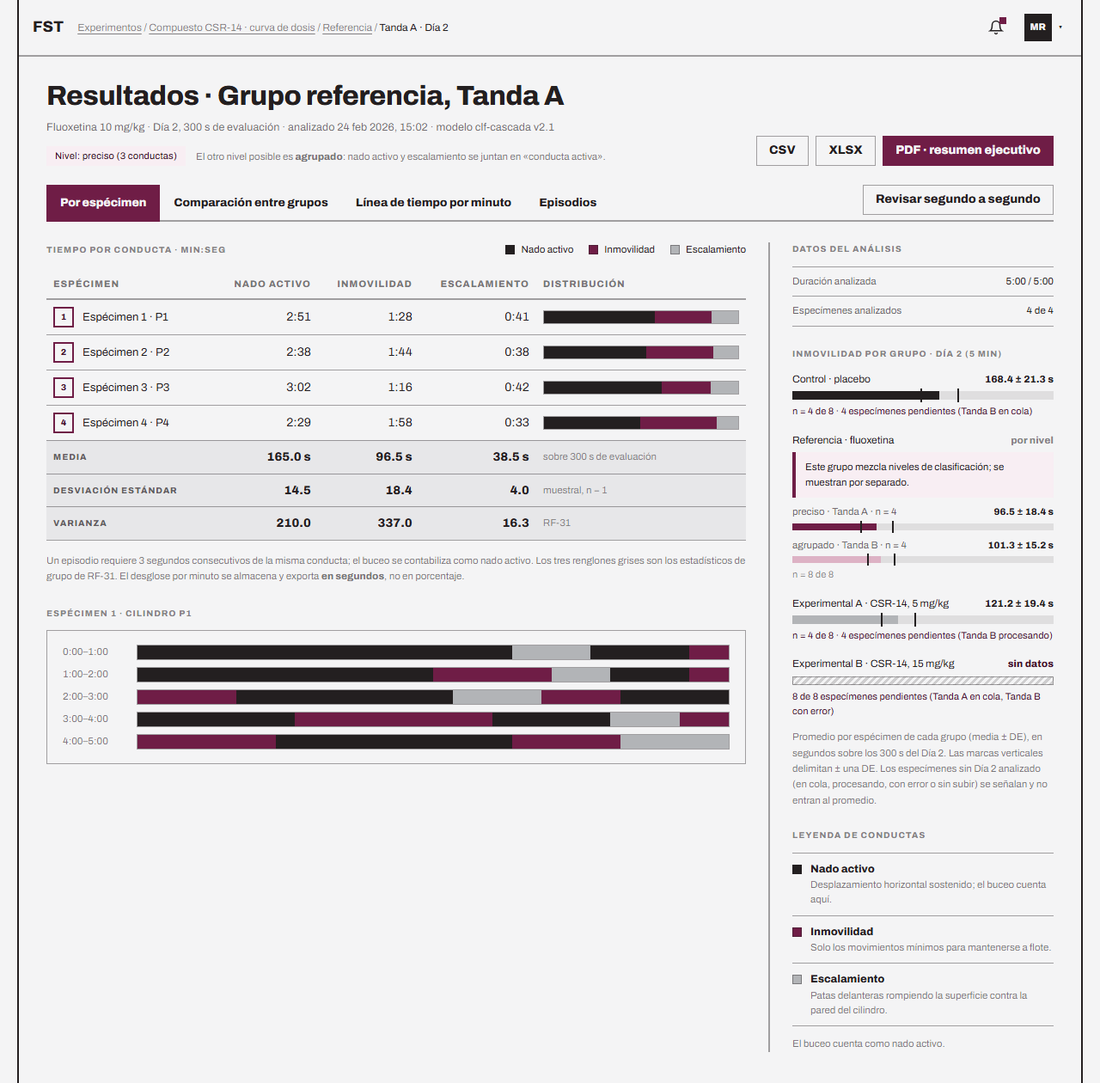
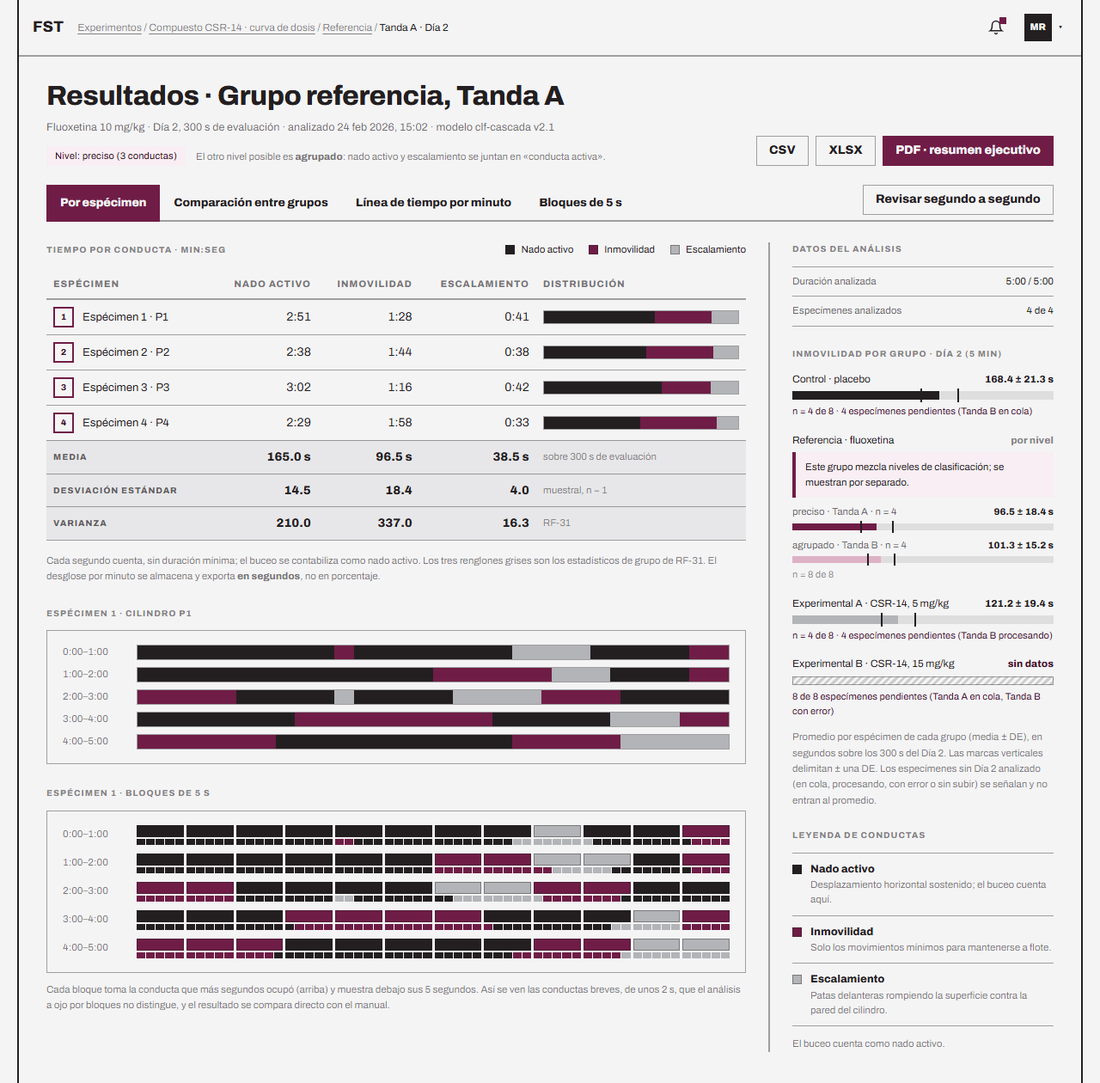
Reescribir el clasificador del capitulo 5, quitar el minimo de 3 s y el bloqueo por intentos
Clasificador (CLA-01)
- El Modulo 4 del capitulo 5 describe el clasificador que se construyo:
  quince rasgos de movimiento, postura y trayectoria, un Random Forest
  con la regla de tres pasos que da "conducta activa", decision segundo
  a segundo con una ventana deslizante de 4 s, entrenamiento en bola de
  nieve con validacion por video y la CNN R(2+1)D, todavia en
  desarrollo. La evaluacion queda para TT-II con precision, recall y F1.
- Bibliografia: Breiman (2001) y Tran et al. (2018).
- CAMBIOS-CAP5.md registra CLA-02 y CLA-03 (arquitectura, seguimiento y
  ResNet en los demas capitulos), en espera hasta terminar el
  clasificador.

Sin duracion minima de episodio (D-49)
- RF-18, la justificacion de umbrales, el alcance y el suavizado: cada
  segundo recibe una conducta sin duracion minima y el sistema detecta
  conductas breves de unos 2 s.
- Resultados: la pestana "Episodios" pasa a "Bloques de 5 s", con la
  conducta mayoritaria de cada bloque y sus cinco segundos debajo, para
  comparar con el analisis manual. Nueva subfigura en el capitulo 5.
- El panel de administracion deja de mostrar el minimo de 3 s.

Otros
- CU-01 ya no bloquea la cuenta tras cinco intentos fallidos (D-48).
- El ciclo de vida del experimento ya no permite reintentar un analisis
  fallido (RN-04) y su estado de error nombra los dos errores definidos.
- El enlace de recuperacion del login dura 60 minutos, como la
  configuracion.

El documento compila sin errores, 175 paginas.

diff --git a/mockups/v2/resultados.html b/mockups/v2/resultados.html
@@ -46,7 +46,7 @@
       <button type="button" class="tab on" data-target="secEspecimen">Por espécimen</button>
       <button type="button" class="tab" data-target="secComparacion">Comparación entre grupos</button>
       <button type="button" class="tab" data-target="secTimeline">Línea de tiempo por minuto</button>
-      <button type="button" class="tab" disabled>Episodios</button>
+      <button type="button" class="tab" data-target="secBloques">Bloques de 5 s</button>
       <div style="flex:1"></div>
       <a class="btn btn-secondary" href="revision.html" style="align-self:center;margin-bottom:6px">Revisar segundo a segundo</a>
     </div>
@@ -66,12 +66,18 @@
           <tbody id="rows"></tbody>
         </table>
 
-        <p class="hint" style="margin:14px 0 0">Un episodio requiere 3 segundos consecutivos de la misma conducta; el buceo se contabiliza como nado activo. Los tres renglones grises son los estadísticos de grupo de RF-31. El desglose por minuto se almacena y exporta <strong>en segundos</strong>, no en porcentaje.</p>
+        <p class="hint" style="margin:14px 0 0">Cada segundo cuenta, sin duración mínima; el buceo se contabiliza como nado activo. Los tres renglones grises son los estadísticos de grupo de RF-31. El desglose por minuto se almacena y exporta <strong>en segundos</strong>, no en porcentaje.</p>
 
         <div class="k" id="secTimeline" style="margin:26px 0 12px">Espécimen 1 · Cilindro P1</div>
         <div style="border:1px solid var(--color-divider);padding:16px 18px">
           <div id="timeline" style="display:flex;flex-direction:column;gap:8px"></div>
         </div>
+
+        <div class="k" id="secBloques" style="margin:26px 0 12px">Espécimen 1 · bloques de 5 s</div>
+        <div style="border:1px solid var(--color-divider);padding:16px 18px">
+          <div id="bloques" style="display:flex;flex-direction:column;gap:10px"></div>
+        </div>
+        <p class="hint" style="margin:10px 0 0">Cada bloque toma la conducta que más segundos ocupó (arriba) y muestra debajo sus 5 segundos. Así se ven las conductas breves, de unos 2 s, que el análisis a ojo por bloques no distingue, y el resultado se compara directo con el manual.</p>
       </div>
 
       <div style="background:var(--color-bg);padding-left:26px;display:flex;flex-direction:column;gap:24px">
@@ -163,9 +169,9 @@
 
   // ── línea de tiempo por minuto (Espécimen 1) ─────────────────────────────────
   const patron = [
-    [['nado', 38], ['escal', 8], ['nado', 10], ['inmov', 4]],
+    [['nado', 20], ['inmov', 2], ['nado', 16], ['escal', 8], ['nado', 10], ['inmov', 4]],
     [['nado', 30], ['inmov', 12], ['escal', 6], ['nado', 8], ['inmov', 4]],
-    [['inmov', 10], ['nado', 22], ['escal', 9], ['inmov', 8], ['nado', 11]],
+    [['inmov', 10], ['nado', 10], ['escal', 2], ['nado', 10], ['escal', 9], ['inmov', 8], ['nado', 11]],
     [['nado', 16], ['inmov', 20], ['nado', 12], ['escal', 7], ['inmov', 5]],
     [['inmov', 14], ['nado', 24], ['inmov', 11], ['escal', 11]]
   ];
@@ -176,6 +182,30 @@
       '<span class="num" style="width:74px;font-size:11.5px;color:color-mix(in srgb,var(--color-text) 60%,transparent)">' + fmt(i * 60) + '–' + fmt(i * 60 + 60) + '</span>' +
       '<div style="flex:1;display:flex;height:18px;border:1px solid var(--color-divider)">' +
         segs.map(s => '<div title="' + lbl[s[0]] + ' · ' + s[1] + ' s" style="background:' + cmap[s[0]] + ';width:' + (s[1] / 60 * 100) + '%"></div>').join('') +
+      '</div>' +
+    '</div>').join('');
+
+  // ── bloques de 5 s (RF-18): la conducta con más segundos y, debajo, sus 5 segundos ──
+  const porSegundo = patron.flatMap(segs => segs.flatMap(([c, d]) => Array(d).fill(c)));
+  const EMPATE = 'repeating-linear-gradient(135deg,color-mix(in srgb,var(--color-text) 30%,transparent) 0 3px,transparent 3px 6px)';
+  function bloque(segs5) {
+    const n = {}; segs5.forEach(c => { n[c] = (n[c] || 0) + 1; });
+    const max = Math.max(...Object.values(n));
+    const top = Object.keys(n).filter(c => n[c] === max);
+    // Desempate aún por definir (D-49): el bloque se marca como empate.
+    const titulo = top.length > 1 ? 'Empate: ' + top.map(c => lbl[c]).join(' / ') : lbl[top[0]] + ' · ' + max + ' de 5 s';
+    return '<div title="' + titulo + '" style="flex:1;display:flex;flex-direction:column;gap:2px">' +
+      '<div style="height:14px;background:' + (top.length > 1 ? EMPATE : cmap[top[0]]) + ';border:1px solid var(--color-divider)"></div>' +
+      '<div style="display:flex;gap:1px;height:7px">' +
+        segs5.map(c => '<div style="flex:1;background:' + cmap[c] + '"></div>').join('') +
+      '</div>' +
+    '</div>';
+  }
+  $('bloques').innerHTML = patron.map((_, m) =>
+    '<div style="display:flex;align-items:center;gap:12px">' +
+      '<span class="num" style="width:74px;font-size:11.5px;color:color-mix(in srgb,var(--color-text) 60%,transparent)">' + fmt(m * 60) + '–' + fmt(m * 60 + 60) + '</span>' +
+      '<div style="flex:1;display:flex;gap:3px">' +
+        Array.from({ length: 12 }, (_, b) => bloque(porSegundo.slice(m * 60 + b * 5, m * 60 + b * 5 + 5))).join('') +
       '</div>' +
     '</div>').join('');
 

diff --git a/mockups/v2/login.html b/mockups/v2/login.html
@@ -36,7 +36,7 @@
   <form id="fRecover" novalidate style="padding:30px 34px 32px">
     <div class="nd" style="font-size:24px;color:var(--color-accent);margin-bottom:26px">FST</div>
     <h3 style="margin:0 0 10px">Recuperar contraseña</h3>
-    <p style="margin:0 0 22px;font-size:13px;line-height:1.6;color:color-mix(in srgb,var(--color-text) 70%,transparent);text-wrap:pretty">Escribe el correo de tu cuenta y te enviamos un enlace de restablecimiento válido por 30 minutos.</p>
+    <p style="margin:0 0 22px;font-size:13px;line-height:1.6;color:color-mix(in srgb,var(--color-text) 70%,transparent);text-wrap:pretty">Escribe el correo de tu cuenta y te enviamos un enlace de restablecimiento válido por 60 minutos.</p>
     <div style="display:flex;flex-direction:column;gap:16px">
       <div class="field"><label for="rEmail">Correo electrónico</label><input class="input num" id="rEmail" type="email" placeholder="nombre@ejemplo.com"></div>
       <div class="field-error hidden" id="rErr"></div>

diff --git a/mockups/v2/admin.html b/mockups/v2/admin.html
@@ -223,7 +223,7 @@
     '<div style="display:flex;justify-content:space-between;gap:12px;padding:8px 0;border-bottom:1px solid var(--color-divider);font-size:11.5px"><span style="color:color-mix(in srgb,var(--color-text) 70%,transparent)">' + d.k + '</span><span class="num">' + d.v + '</span></div>').join('');
 
   $('catalogos').innerHTML = [
-    { titulo: 'Conductas', items: [{ n: 'Nado activo', m: '≥ 3 s' }, { n: 'Inmovilidad', m: '≥ 3 s' }, { n: 'Escalamiento', m: '≥ 3 s' }, { n: 'Conducta activa', m: '≥ 3 s' }] },
+    { titulo: 'Conductas', items: [{ n: 'Nado activo', m: '' }, { n: 'Inmovilidad', m: '' }, { n: 'Escalamiento', m: '' }, { n: 'Conducta activa', m: '' }] },
     { titulo: 'Modelo del clasificador', items: [{ n: 'Modelo en uso: clf-cascada v2.1', m: '' }] }
   ].map(c =>
     '<div style="background:var(--color-bg);padding-right:18px">' +

diff --git a/chapters/05_diseno.tex b/chapters/05_diseno.tex
@@ -167,52 +167,67 @@ Dentro de cada ROI, el seguimiento combina detección y asociación temporal:
 
 \subsection{Módulo 4: Clasificación de conducta}
 
-El clasificador recibe el recorte de imagen alrededor del espécimen, normalizado
-a $224 \times 224$ píxeles, y produce tres probabilidades: nado activo,
-inmovilidad y escalamiento.
-Opera en tres niveles según la confianza de la predicción (el umbral exacto
-se definirá durante la fase de validación en TT-II):
+La clasificación trabaja sobre el cilindro de cada espécimen y se basa en
+aprendizaje supervisado. Se construye en dos partes: un clasificador sobre rasgos
+medidos, que ya funciona y que además sirve para etiquetar el conjunto de
+entrenamiento, y una red neuronal convolucional que se compara contra él y que
+sigue en desarrollo.
 
-Los tres niveles operan en cascada: solo se pasa al siguiente si el anterior no
-alcanza el umbral de confianza mínimo.
+\paragraph{Rasgos del espécimen.} Sobre la imagen estabilizada y con el espécimen
+separado del fondo, el sistema mide quince rasgos que describen su movimiento (la
+energía de movimiento medida solo dentro del cuerpo, para que el oleaje del agua no
+la sature), su postura (verticalidad, alargamiento y área) y su trayectoria
+(recorrido, amplitud y cuadrantes del cilindro que cruza). Las distancias se
+expresan en largos de cuerpo y los tiempos en segundos: así, dos videos grabados
+con encuadres distintos producen números comparables y el clasificador aprende la
+conducta y no el encuadre.
+
+\paragraph{Clasificador sobre rasgos.} Un bosque aleatorio (\textit{Random
+Forest}) \cite{breiman2001}, implementado con scikit-learn \cite{pedregosa2011},
+recibe los quince rasgos y estima la probabilidad de nado activo, inmovilidad y
+escalamiento. La conducta se decide con una regla de tres pasos:
 
 \begin{enumerate}
-  \item \textbf{ResNet-18} preentrenada en ImageNet con \textit{transfer learning}
-        \cite{he2016,pan2010}: clasificador principal. Si la confianza de la
-        predicción supera el umbral, la conducta se acepta directamente y no se
-        consultan los niveles siguientes.
-  \item \textbf{ResNet-50} (\textit{fallback} de primer nivel): si ResNet-18 no
-        alcanza la confianza mínima, se consulta ResNet-50, una arquitectura más
-        profunda con mayor capacidad de discriminación para cuadros ambiguos. Si
-        ResNet-50 supera el umbral, su predicción se acepta.
-  \item \textbf{Heurística \textit{motion} + \textit{aspect ratio}} (\textit{fallback}
-        de último recurso): si ambas redes quedan por debajo del umbral, se aplica
-        una regla geométrica que combina dos señales. El \textbf{desplazamiento}
-        (\textit{motion}) mide cuánto se movió el centro del \textit{bounding box}
-        entre el cuadro anterior y el actual: poco desplazamiento indica inmovilidad,
-        mucho desplazamiento indica nado. La \textbf{relación de aspecto}
-        (\textit{aspect ratio}) del \textit{bounding box} complementa esa señal:
-        una caja más ancha que alta corresponde al espécimen horizontal (nado),
-        una caja más alta que ancha corresponde al espécimen vertical flotando
-        (inmovilidad), y una caja alta y estrecha corresponde al espécimen erguido
-        contra la pared (escalamiento). La combinación de ambas señales permite
-        distinguir los tres estados sin necesidad de un modelo entrenado.
+  \item Si una conducta supera el umbral de confianza, se asigna esa conducta.
+  \item Si ninguna lo supera, pero la suma de nado activo y escalamiento sí, se
+        asigna \textit{conducta activa}: el espécimen no está inmóvil, pero el
+        clasificador no decide entre las dos conductas activas (ver RN-13).
+  \item Si tampoco, se asigna la conducta más probable y el resultado se marca
+        como dudoso para que la revisión humana lo atienda primero.
 \end{enumerate}
 
-Las predicciones individuales de cada cuadro se consolidan mediante \textbf{voto
-mayoritario} en una ventana deslizante de un segundo. El objetivo es suavizar
-clasificaciones ruidosas: un espécimen que está nadando puede aparecer clasificado
-como ``inmóvil'' en dos o tres cuadros aislados por un reflejo, una oclusión breve
-o ruido en la imagen. Sin suavizado, eso generaría episodios falsos de fracciones
-de segundo. Con la ventana de un segundo, se cuentan los votos de todos los cuadros
-dentro de la ventana y la conducta con más votos se asigna como resultado de ese
-intervalo. A 30 fps, por ejemplo, si 24 cuadros clasifican nado, 4 inmovilidad y
-2 escalamiento, el resultado es nado. La granularidad de un segundo es coherente
-con la duración mínima de episodio definida en RN (ver sec.~\ref{sec:umbrales}).
+\paragraph{Decisión segundo a segundo.} Para decidir el segundo $k$, el sistema
+mide los rasgos en una ventana de 4~s centrada en él (desde 1.5~s antes hasta
+2.5~s después) y aplica el clasificador. La ventana avanza un segundo a la vez,
+así que cada segundo tiene su propia decisión y aparecen conductas breves, de unos
+2~s, que una decisión por bloques de 5~s esconde. Una ventana más corta vería
+conductas más breves, pero mediría con muy pocos datos; 4~s es el punto de
+equilibrio. El segundo es la unidad con la que el sistema registra las conductas;
+no se aplica una duración mínima de episodio (ver RF-18 y
+sec.~\ref{sec:umbrales}). Al agrupar los segundos de cada bloque de 5~s y tomar la
+conducta mayoritaria, el resultado se compara directamente con el análisis manual
+por bloques.
 
-Cuando el clasificador sabe que el espécimen no está inmóvil pero no decide entre
-nado activo y escalamiento, ese segundo se registra como \textit{conducta activa},
-una cuarta conducta, y los reportes la muestran como una columna más (ver RN-13).
+\paragraph{Conjunto de entrenamiento.} El clasificador se entrena con bloques de
+5~s etiquetados por el equipo, sin usar las anotaciones del laboratorio. El
+etiquetado crece en bola de nieve: se etiqueta a mano un primer video, el
+clasificador propone las etiquetas del siguiente, el equipo revisa solo las
+marcadas como dudosas y se vuelve a entrenar con ambos videos. La validación agrupa
+por video, no por bloque, porque dos bloques seguidos del mismo espécimen son casi
+iguales y medirlos por separado inflaría el resultado.
+
+\paragraph{Red neuronal convolucional (en desarrollo).} Se compara contra el
+clasificador sobre rasgos una red convolucional espacio-temporal R(2+1)D-18
+\cite{tran2018}, preentrenada con videos de acciones humanas e implementada con
+PyTorch \cite{paszke2019}. Recibe clips de 16 fotogramas del cilindro de cada
+espécimen; su versión más reciente fusiona la red con una rama de medidas: los
+quince rasgos y siete reglas de observación del pataleo bajo el agua y de los
+cambios sobre la línea de agua. Por ahora decide por bloques de 5~s; llevarla al
+nivel de segundo y elegir entre ella y el clasificador sobre rasgos se hará en
+TT-II, con precisión, \textit{recall} y F1 por conducta (ver OE-5 y RNF-02).
+
+Cuando el sistema registra un segundo como \textit{conducta activa}, los reportes
+la muestran como una cuarta columna (ver RN-13).
 
 \subsection{Módulo 5: Resultados}
 
@@ -848,7 +863,7 @@ la información que el sistema devuelve y los eventos inesperados que pueden ocu
 \hline
 \textbf{Nro.} & \textbf{Descripción de acciones alternas} \\
 \hline
-4 & Credenciales incorrectas: el sistema muestra mensaje de error sin indicar cuál campo falló. Tras cinco intentos consecutivos, el sistema aplica un bloqueo temporal de acceso. \\
+4 & Credenciales incorrectas: el sistema muestra mensaje de error sin indicar cuál campo falló (ver RN-01). \\
 \hline
 \end{tabular}
 
@@ -2721,7 +2736,9 @@ soportar cancelación.
 \subsection{Resultados del experimento}
 
 Cuatro pestañas: resultados por espécimen, comparación entre grupos, línea de tiempo
-por minuto (RF-20) y episodios, esta última aún sin habilitar. La vista por espécimen
+por minuto (RF-20) y bloques de 5~s (RF-18), donde cada bloque muestra la conducta con
+más segundos y, dentro, los cinco segundos que lo componen, para notar las conductas
+breves y comparar con el análisis manual. La vista por espécimen
 muestra el tiempo por conducta con media, desviación estándar y varianza (RF-19), el
 nivel de clasificación del análisis y la leyenda de conductas; en el panel lateral
 se compara la inmovilidad entre los grupos con los videos del Día~2 (RF-21). Esa
@@ -2732,18 +2749,26 @@ descarga en PDF, CSV y XLSX.
 
 \begin{figure}[H]
 \centering
-  \begin{subfigure}[t]{0.609\textwidth}
+  \begin{subfigure}[t]{0.508\textwidth}
     \centering
     \includegraphics[width=\textwidth]{figures/mockups/v2/resultados}
     \caption{Resultados por espécimen.}
     \label{fig:ui_resultados_especimen}
   \end{subfigure}
-  \hfill
-  \begin{subfigure}[t]{0.351\textwidth}
+  \hspace{0.03\textwidth}
+  \begin{subfigure}[t]{0.293\textwidth}
     \centering
     \includegraphics[width=\textwidth]{figures/mockups/v2/estados/resultados_comparacion}
     \caption{Comparación entre grupos en el Día~2 (RF-21).}
     \label{fig:ui_resultados_comparacion}
+  \end{subfigure}
+
+  \vspace{8pt}
+  \begin{subfigure}[t]{0.75\textwidth}
+    \centering
+    \includegraphics[width=\textwidth]{figures/mockups/v2/estados/resultados_bloques}
+    \caption{Bloques de 5~s con sus segundos (RF-18).}
+    \label{fig:ui_resultados_bloques}
   \end{subfigure}
 \caption{Pantalla de resultados del experimento [autoría propia].}
 \label{fig:ui_resultados}

diff --git a/chapters/04_analisis.tex b/chapters/04_analisis.tex
@@ -173,10 +173,12 @@ RF-17 & Análisis conductual
       & Alta & Sistema \\
       \hline
 RF-18 & Análisis conductual
-      & El sistema debe contabilizar una conducta como episodio válido únicamente si
-        se mantiene de forma continua durante al menos 3~segundos consecutivos. Las
-        conductas con duración inferior a ese umbral deben ignorarse. Este criterio
-        reproduce el estándar del laboratorio en el análisis manual.
+      & El sistema debe asignar una conducta a cada segundo del análisis, sin
+        descartar ninguna por su duración, de modo que registre conductas breves (de
+        unos 2~segundos) que el análisis manual por bloques de 5~segundos no
+        distingue. Para compararse con ese método, los resultados también se
+        presentan en bloques de 5~segundos: cada bloque toma la conducta con más
+        segundos y muestra dentro los segundos que lo componen.
       & Alta & Sistema \\
 \hline
 
@@ -463,11 +465,15 @@ ajustarse en la fase de validación (TT2).
         El F1 por conducta se evaluará sobre el conjunto de prueba de la fase de
         validación en TT2.
 
-  \item \textbf{Duración mínima de episodio: 3~segundos.}
-        Criterio declarado por el investigador colaborador en la entrevista de
-        levantamiento. En el análisis manual, una conducta se contabiliza únicamente
-        si se mantiene de forma continua alrededor de 3 a 5 segundos; el sistema
-        adopta el límite inferior como umbral conservador (ver RF-18).
+  \item \textbf{Sin duración mínima de episodio; bloques de 5~segundos como referencia.}
+        En la entrevista de levantamiento, el investigador colaborador indicó que en
+        el análisis manual una conducta se contabiliza si se mantiene alrededor de 3
+        a 5~segundos. El sistema no adopta ese mínimo: asigna una conducta a cada
+        segundo y detecta conductas breves de unos 2~segundos, que es justo lo que el
+        análisis a ojo no alcanza a registrar. El criterio manual se conserva como
+        referencia: los resultados también se agrupan en bloques de 5~segundos, con la
+        conducta que más segundos ocupó en cada bloque, para compararlos con el
+        análisis manual (ver RF-18).
 
   \item \textbf{Período de retención de videos: 30~días.}
         Confirmado por el investigador colaborador en la entrevista de levantamiento

diff --git a/chapters/01_introduccion.tex b/chapters/01_introduccion.tex
@@ -259,8 +259,10 @@ de la validación final.
 
   \item \textbf{Clasificación de conductas:} el sistema clasifica de forma continua
         las tres conductas del FST: nado activo, inmovilidad e intentos de escape
-        (escalamiento). El buceo se clasifica como nado activo. Para contabilizarse,
-        un episodio debe tener una duración mínima de tres segundos consecutivos.
+        (escalamiento). El buceo se clasifica como nado activo. Cada segundo recibe
+        una conducta, sin duración mínima, lo que permite registrar conductas breves
+        de unos dos segundos; los resultados también se agrupan en bloques de cinco
+        segundos, como en el análisis manual.
         Cuando el clasificador sabe que el espécimen no está inmóvil pero no decide
         entre nado activo y escalamiento, ese segundo se registra como conducta
         activa, una cuarta conducta.

diff --git a/errores/preguntas-doctor.md b/errores/preguntas-doctor.md
@@ -270,6 +270,8 @@ grafo relacional final.
 | D-45 | ~~¿El sistema envía correos? La contraseña temporal (CU-12) y la recuperación de contraseña (RF-03, CU-03) dependían de un servidor de correo que nadie sabe si existirá; el temario de la materia (Web client and backend development frameworks) no menciona correo~~ **Resuelto (usuario, 2026-10-04, tras descartar «sin correo»):** **el sistema sí envía correos, desde una cuenta de correo normal** (p. ej. Gmail), configurable en el servidor; no depende de un servidor del IPN. (1) **Notificaciones:** cada `NOTIFICACION` que el sistema crea (`analisis completado`, `error del pipeline`, `alerta de disco`) se envía también por correo a su destinatario; la campanita no cambia. Sin tablas ni columnas nuevas. (2) **Contraseñas:** la temporal se envía por correo **y** se muestra una vez en pantalla al Administrador como respaldo; la recuperación por enlace (RF-03, CU-03) se conserva. (3) **Si el correo falla**, el sistema sigue funcionando y el aviso queda en la campanita. **Queda abierto:** qué otras notificaciones agregar (el usuario las definirá después; candidatas no decididas: video por vencer a los 7 días, borrado por disco al 90 %) y si cada usuario puede apagar los correos (requeriría columna nueva). **Aplicado (4-oct)** en `INSTRUCCIONES-WEB.md` (sección 11 punto 2 cerrado; pantalla de administración 9.6); requisito nuevo **RF-33 «Notificaciones»** (cap. 4: panel y correo para análisis terminado, error y alerta de disco); CU-12 (referencia a RF-33, postcondición, paso 7 con la temporal en pantalla y curso alterno 6 si el correo falla); panel de administración del cap. 5; `seq_crear_cuenta.puml` y su PNG; `admin.html` (al crear la cuenta muestra la temporal una sola vez) | Usuario |
 | D-46 | ~~El sistema promete que el correo de cada cuenta es institucional (`@ipn.mx`) y lo valida en el login y en el alta de cuenta. ¿Hace falta?~~ **Resuelto (usuario, 2026-10-04):** **se quita la restricción `@ipn.mx`**; cualquier correo sirve. Como no hay autorregistro y solo el Administrador crea cuentas, el filtro real es el Administrador, y el identificador institucional ya liga cada cuenta al IPN. Es independiente de D-45 (envío de correo). **Aplicado (4-oct)** en RF-01 y RF-07; cap. 5 (CU-01, CU-03, CU-12, edición de perfil, pantallas de login y perfil); `seq_login` y `seq_crear_cuenta` con sus PNG; mockups `login.html` (error genérico de RN-01 en lugar de «correo fuera del dominio»; contraseña de prueba `demo1234`), `admin.html` y `perfil.html` con sus capturas; e `INSTRUCCIONES-WEB.md` | Usuario |
 | D-47 | ~~D-32 quitó el umbral de 0.70 pero dejó dos cabos: la columna `ANALISIS.confianza` (el detector actual no produce ningún valor de confianza) y RF-16, que pide mostrar un «código de error» sin columna donde guardarlo. Los mockups seguían mostrando «Confianza 0.83 (mínimo 0.70)» y «E-DET-070»~~ **Resuelto (usuario, 2026-10-04):** (1) **se quita la columna `ANALISIS.confianza`** del modelo; (2) **RF-16 deja de mostrar un código de error**: muestra la descripción, armada a partir de la etapa donde se detuvo el análisis, y el PDF de diagnóstico. Sin columnas nuevas. Cierra lo pendiente de D-32. **Aplicado (4-oct)** en RF-16; cap. 5 (descripción de `ANALISIS`, CU-07 paso 3, CU-08 paso 1 —que además decía «error de calidad»— y pantalla de progreso); `grafo_relacional_3_vigente.puml` (78 atributos), `esquema_fisico.puml` y `clases.puml` con sus PNG; `ciclo_vida_experimento.puml` (quitado el «confianza ≥ 0.70» que dejó D-32); `DISENO-BD.md`; `INSTRUCCIONES-WEB.md` (diagramas incrustados y DDL); mockups `progreso.html`, `resultados.html` («Calidad del análisis» pasa a «Datos del análisis»), `grupo.html` y la notificación de `assets/app.js`, con sus capturas. Los grafos 1 y 2 son pasos del método y se dejan como están. Los errores de **carga** de video (CU-05/CU-06, RF-08/RF-10) siguen hablando de código de error porque se responden al momento y no se guardan | Usuario |
+| D-48 | ~~CU-01 dice que tras cinco intentos fallidos de inicio de sesión el sistema bloquea el acceso temporalmente, pero ninguna tabla guarda los intentos~~ **Resuelto (usuario, 2026-10-04):** **se quita todo lo relacionado con intentos y bloqueo de acceso**; el sistema no necesita ese nivel de seguridad para su uso (laboratorio pequeño, cuentas creadas solo por el Administrador). Al fallar las credenciales solo se muestra el error genérico de RN-01. Sin tablas ni columnas nuevas. **Aplicado (4-oct)** en CU-01, curso alterno 4 (`05_diseno.tex`); era la única mención | Usuario |
+| D-49 | ~~RF-18 ignora toda conducta que dure menos de 3 s, pero desde D-35 el sistema etiqueta cada segundo: el filtro haría que los totales no sumen 300 s o reasignaría etiquetas por su cuenta, y borraría justo las conductas breves que el sistema debe captar. El «3 a 5 s» de la entrevista (P6) podría venir de la técnica por eventos (Q-A)~~ **Resuelto (usuario, 2026-10-04):** **sin duración mínima**: cada segundo recibe una conducta y ninguna se descarta por su duración, porque el aporte del sistema es ver las conductas breves que el análisis a ojo por bloques (criterio de Porsolt) no capta. **La tesis afirma que el sistema detecta conductas breves de unos 2 s** (no de 1 s), que es lo que logra el etiquetador real con su ventana deslizante de 4 s (`segundos.py`). Los totales por conducta suman todos los segundos. **Además**, los resultados muestran **bloques de 5 s** (60 en 300 s), como el etiquetador y el método manual: cada bloque toma **la conducta con más segundos** dentro de él, y **dentro del bloque se ven sus 5 segundos** con su conducta, para notar las breves. Reemplaza a la pestaña «Episodios». No cambia el modelo: los bloques se calculan desde `SEGUNDO`. El suavizado por voto mayoritario sigue, pero solo dentro de cada segundo. El «3 a 5 s» del laboratorio solo importa al comparar contra los Excel manuales (validación, Q-A). **Detalle abierto:** cómo se desempata un bloque (p. ej. 2 s y 2 s); el mockup lo marca como «empate». **Aplicado (4-oct)** en RF-18, la justificación de umbrales, el alcance del cap. 1, el suavizado y la pantalla de resultados del cap. 5 (nueva subfigura de bloques); mockups `resultados.html` (pestaña «Bloques de 5 s» en lugar de «Episodios», sin la nota de 3 s) y `admin.html` (sin «≥ 3 s»). Que el clasificador descrito en el cap. 5 no es el real quedó como CLA-01/CLA-02 en `CAMBIOS-CAP5.md` | Usuario |
 
 > **Fundamento de D-08, verificado en los dos libros (15-sep):**
 > - Kendall & Kendall, *Análisis y Diseño de Sistemas*, cap. 13 "Diseño de bases de

diff --git a/CAMBIOS-CAP5.md b/CAMBIOS-CAP5.md
@@ -250,4 +250,31 @@ su última actualización es del 2026-09-02 y el artifact se republicó después
 
 ---
 
+## H. El clasificador del cap. 5 no es el que se construyó — encontrado el 2026-10-04 🔴
+
+Las secciones del clasificador (`05_diseno.tex`, alrededor de las líneas 170-212, y la
+mención «ResNet» de la arquitectura, línea ~46) describen una cascada ResNet-18 →
+ResNet-50 y un suavizado por voto mayoritario de cuadros en ventanas de **1 s**. El
+etiquetador real (`C:\Users\Samsung\Desktop\Videos\fst_auto`) hace otra cosa:
+
+- Mide **15 rasgos** por fotograma y decide con el **modelo de bloques**
+  (`modelo_fst.joblib`), entrenado con bloques de 5 s; además hay una CNN 3D fusionada con
+  rasgos y reglas (commit `ee7c9a8`, 26-sep).
+- **Segundo a segundo** (`segundos.py`, commit `4eb1f46`, 30-sep): para el segundo *k* mide
+  los rasgos en una **ventana deslizante de 4 s** centrada en *k*; detecta conductas de unos
+  **2 s**. Regla de tres pasos que da «conducta activa» cuando no decide.
+- Valida juntando los segundos de cada bloque de 5 s por mayoría contra los bloques hechos
+  a mano.
+
+| ID | Qué | Estado |
+|----|-----|--------|
+| **CLA-01** | Reescribir la descripción del clasificador del cap. 5 según el etiquetador real (rasgos, modelo de bloques, CNN, ventana deslizante de 4 s) | ✅ Hecho (4-oct): Módulo 4 reescrito (rasgos, Random Forest con regla de tres pasos, ventana deslizante de 4 s, entrenamiento en bola de nieve, CNN R(2+1)D en desarrollo). Sin cifras de desempeño: la evaluación queda para TT-II con precisión, recall y F1. Bibliografía: `breiman2001`, `tran2018` |
+| **CLA-02** | Revisar la arquitectura (línea ~46: «YOLOv8, ByteTrack, ResNet»), el Módulo 3 (seguimiento con YOLOv8 + ByteTrack) y los modelos que monta el worker (`rat.pt`, `resnet18_fst.pt`, `resnet50_fst.pt`) contra lo real | ⏸ En espera (usuario, 4-oct): el clasificador aún no se termina y no se sabe si se usará eso |
+| **CLA-03** | ResNet-18/50 como clasificador del proyecto sigue en otros capítulos: cap. 1 (líneas ~366, 466, 488), cap. 2 (~272-289), cap. 3 (sección «ResNet y conexiones residuales», ~261-281, y ~333), cap. 4 (tabla de tecnologías ~693-708, viabilidad ~882-886 y ~909), glosario (~62, 81, 190, 261, 287-290, 315) y abreviaturas | ⏸ En espera (usuario, 4-oct): se hace junto con CLA-02, cuando el clasificador esté terminado |
+
+**Fuente:** el código y los commits de `fst_auto` (rango 1, el equipo). D-49 solo quita la
+liga del suavizado con la duración mínima de episodio; la reescritura completa es CLA-01.
+
+---
+
 *Creado: 2026-09-06*
